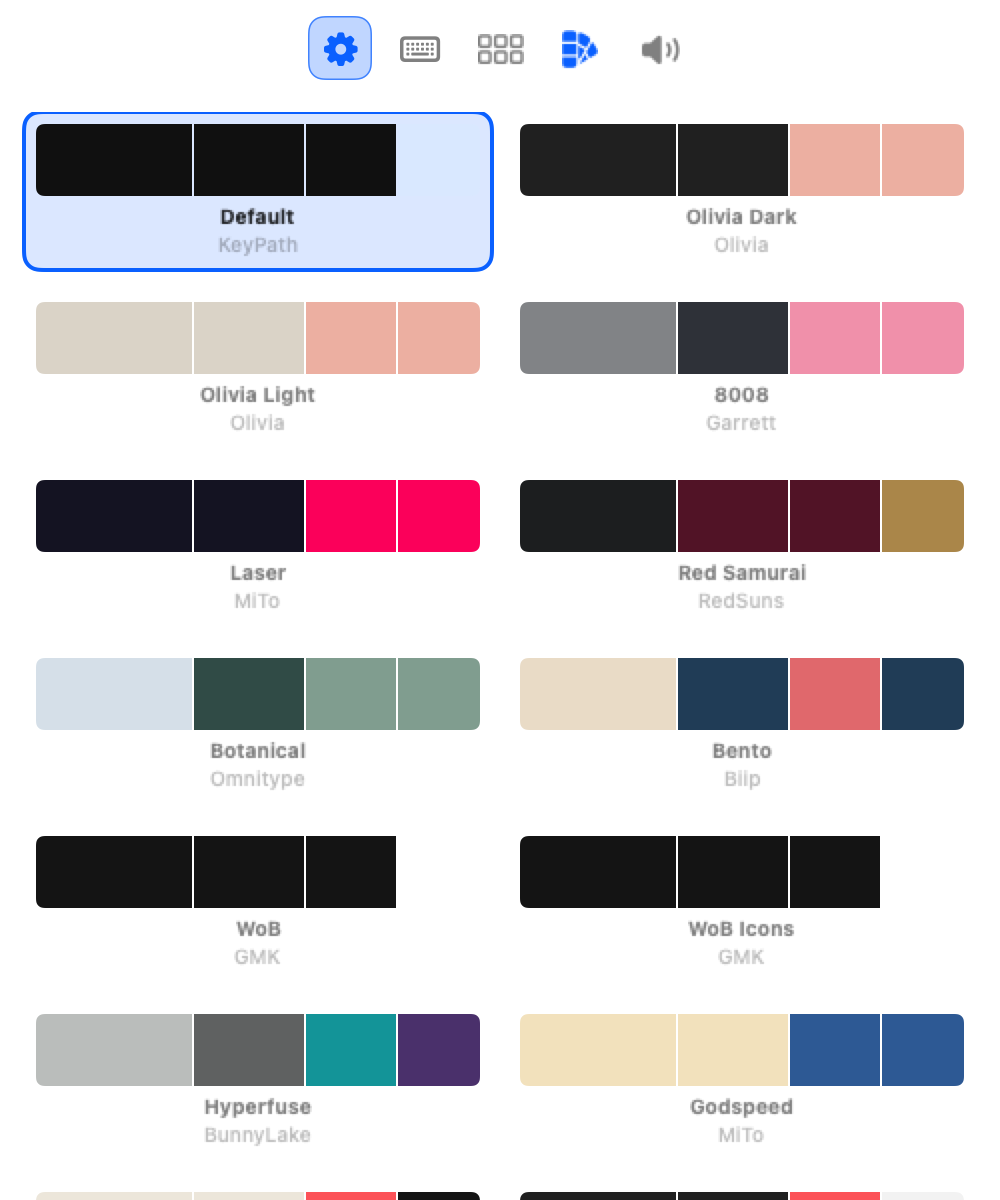
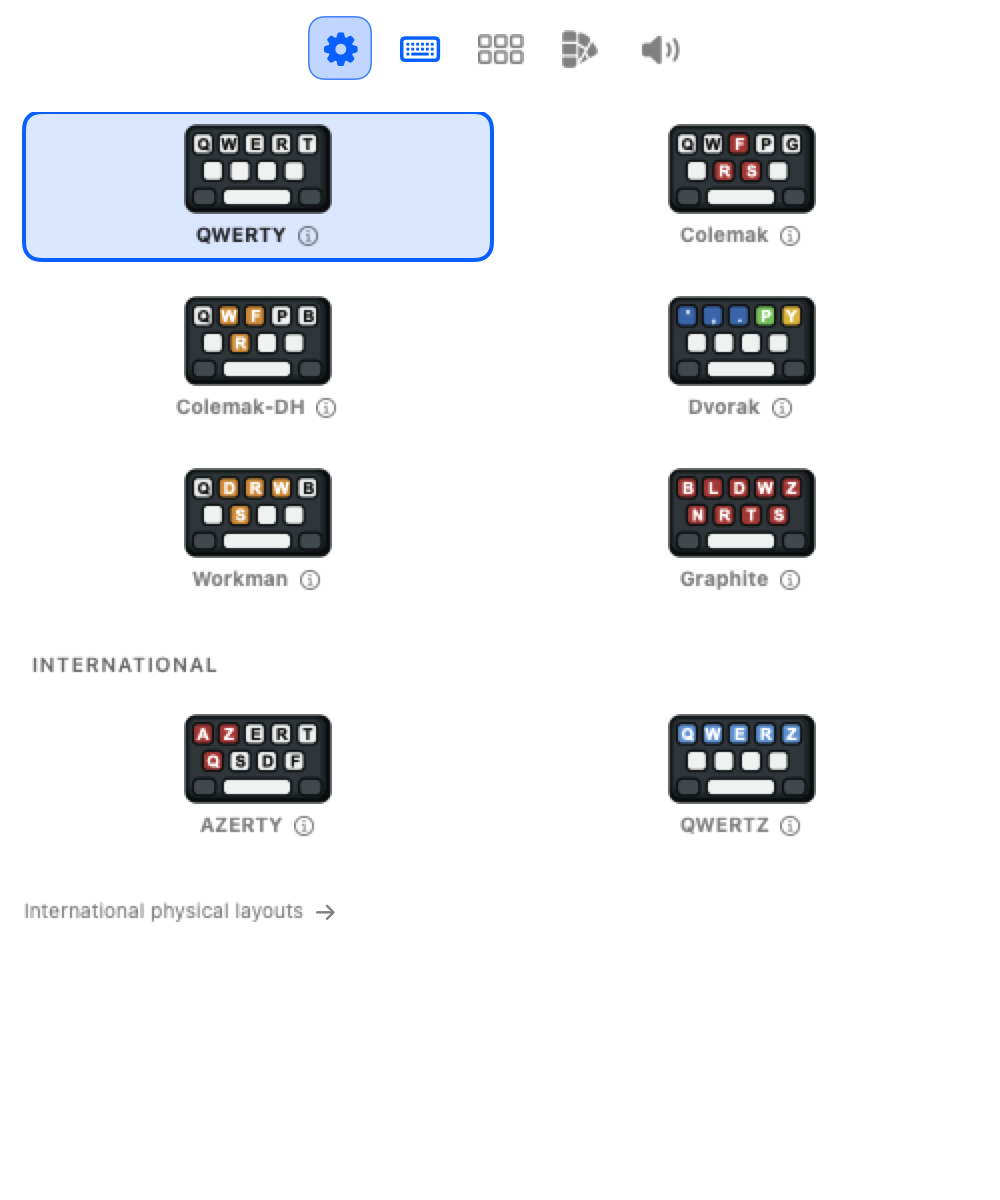
Fix keymap picker screenshot rendering wrong section
The testInspectorKeymapPicker test used .keycaps (colorway grid) instead
of .keyboard (keymap card picker). Now renders the actual keymap picker.

diff --git a/Tests/KeyPathSnapshotTests/HardViewSnapshotTests.swift b/Tests/KeyPathSnapshotTests/HardViewSnapshotTests.swift
@@ -101,7 +101,7 @@ final class HardViewSnapshotTests: ScreenshotTestCase {
 
     func testInspectorKeymapPicker() {
         let view = MockFactories.inspectorPanel(
-            selectedSection: .keycaps,
+            selectedSection: .keyboard,
             isSettingsShelfActive: true,
             hasCustomRules: false
         )
